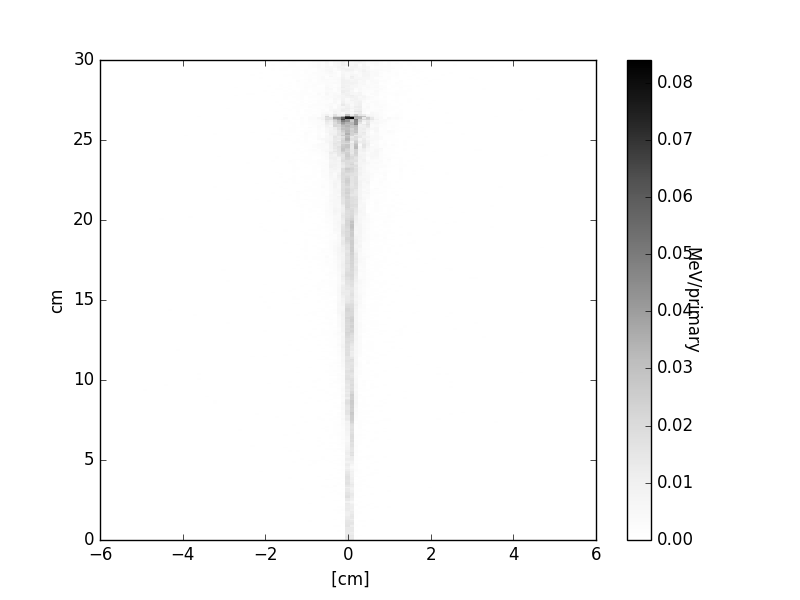
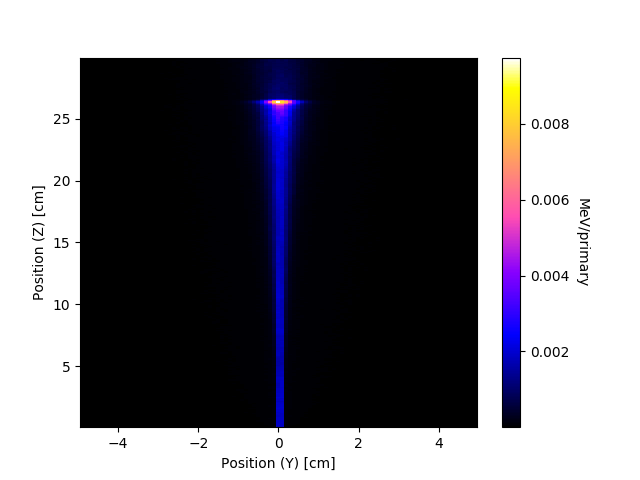
imports improved missing directory creation added improved documentation

diff --git a/pymchelper/writers/plots.py b/pymchelper/writers/plots.py
@@ -3,7 +3,6 @@ import logging
 from enum import IntEnum
 
 import numpy as np
-from matplotlib import colors
 
 logger = logging.getLogger(__name__)
 
@@ -144,8 +143,9 @@ class ImageWriter:
         import matplotlib
         matplotlib.use('Agg')
         import matplotlib.pyplot as plt
+        from matplotlib import colors
 
-        # configure logscale
+        # configure logscale on X and Y axis (both for positive and negative numbers)
         if PlotAxis.x in self.axis_with_logscale:
             plt.xscale('symlog')
         if PlotAxis.y in self.axis_with_logscale:
@@ -170,6 +170,7 @@ class ImageWriter:
         import matplotlib
         matplotlib.use('Agg')
         import matplotlib.pyplot as plt
+        from matplotlib import colors
 
         # skip plotting 0-D and 3-D data
         if detector.dimension in (0, 3):
@@ -192,7 +193,7 @@ class ImageWriter:
         plt.xlabel(self._make_label(detector.units[x_axis_number], x_axis_name))
         xlist = list(detector.axis_values(0, plotting_order=True))  # make list of values from generator
 
-        # configure logscale on X and Y axis
+        # configure logscale on X and Y axis (both for positive and negative numbers)
         if PlotAxis.x in self.axis_with_logscale:
             plt.xscale('symlog')
 

diff --git a/pymchelper/run.py b/pymchelper/run.py
@@ -127,7 +127,8 @@ def main(args=sys.argv[1:]):
         if parsed_args.output is not None:
             output_dir = os.path.dirname(parsed_args.output)
             if output_dir and not os.path.exists(output_dir):
-                raise IOError("Directory {}/ does not exist.".format(output_dir))
+                os.makedirs(output_dir)
+                logger.warning("Directory {:s} does not exist, creating.".format(output_dir))
 
         # TODO add filename discovery
         files = sorted(glob.glob(parsed_args.input))

diff --git a/docs/image_converter.rst b/docs/image_converter.rst
@@ -33,16 +33,41 @@ Logarithmic scale
 
 User can also set logscale on one or more axis in the plots using `--log` option.
 
+An example plot with logarithmic scale on Y axis::
+
+    convertmc image --many "*.bdo" --log y
+
+.. figure:: ex_cyl_logxy.png
+    :scale: 80 %
+    :alt: sample file ex_cyl_logx.png generated with image converter
+
+Scale can be also change on two axis at once::
+
+    convertmc image --many "*.bdo" --log x y
+
+.. figure:: ex_cyl_logxy.png
+    :scale: 80 %
+    :alt: sample file ex_cyl_logxy.png generated with image converter
+
+
+An example plot with 2-D heatmap and logarithmic scale on Z (color) axis::
+
+    convertmc image --many "*.bdo" --log z
+
+.. figure:: ex_yzmsh_logz.png
+    :scale: 80 %
+    :alt: sample file ex_yzmsh_logz.png generated with image converter
+
 
 Colormap
 ^^^^^^^^
 
 When generating heatmaps it is also possible to specify colormap. List of available colormaps is
 available here: http://matplotlib.org/users/colormaps.html. By default colormap called `gnuplot2` is used.
-An example plot obtained with other colormap (`Grays`) can be obtained with following command::
+An example plot obtained with other colormap (`Greys`) can be obtained with following command::
 
     convertmc image --many "*.bdo" --colormap Greys
 
-.. figure:: ex_yzmsh2.png
+.. figure:: ex_yzmsh_grey.png
     :scale: 80 %
-    :alt: sample file ex_yzmsh2.png generated with image converter
+    :alt: sample file ex_yzmsh_grey.png generated with image converter
